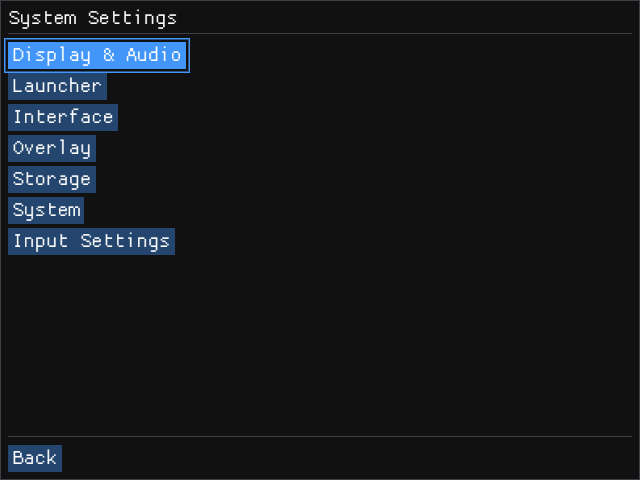
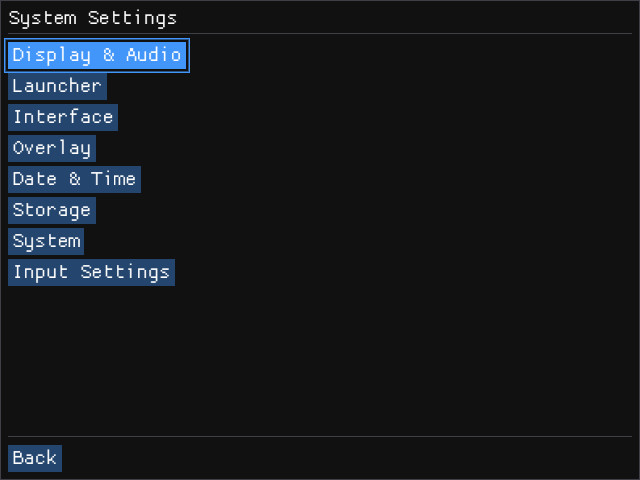
System Settings: Date & Time page
Sets the date and time (through power-manager, which runs as root and
keeps them in the RTC) and the time zone, shows the current time, and
chooses whether the launcher's top bar and the in-game status bar show
the date and/or the time, the date format and 12/24-hour time (12-hour
and MM/DD by default). Apps get the time zone through puppy-bootstrap.

Changed region(s): [[0.0, 0.3438, 0.2812, 0.5938]]

diff --git a/rootfs/package/system-settings/system-settings.cpp b/rootfs/package/system-settings/system-settings.cpp
@@ -8,6 +8,7 @@
 #include <algorithm>
 #include <cmath>
 #include <cstdio>
+#include <ctime>
 #include <fstream>
 #include <string>
 #include <vector>
@@ -158,6 +159,11 @@ const char* HUD_CONFIG = "/home/player/.config/gallium_hud.conf";
 const char* HUD_POSITIONS[] = {"top-left", "top-right", "bottom-left", "bottom-right"};
 const char* HUD_POSITION_NAMES[] = {"Top left", "Top right", "Bottom left", "Bottom right"};
 
+// Date formats: what the settings show, and the strftime format the clocks use
+const char* DATE_FORMAT_NAMES[] = {"MM/DD", "DD/MM", "MM/DD/YYYY", "DD/MM/YYYY", "YYYY-MM-DD", "DD/MM/YY", "YY-MM-DD"};
+const char* DATE_FORMATS[] = {"%m/%d", "%d/%m", "%m/%d/%Y", "%d/%m/%Y", "%Y-%m-%d", "%d/%m/%y", "%y-%m-%d"};
+const int DATE_FORMAT_COUNT = sizeof(DATE_FORMATS) / sizeof(DATE_FORMATS[0]);
+
 struct HudSettings {
     bool status = false;
     bool status_battery_only = false;
@@ -166,6 +172,10 @@ struct HudSettings {
     bool cpu = true;
     bool text = false;
     int position = 0;
+    bool date = true;
+    bool time = true;
+    bool h24 = false;
+    int date_format = 0;   // DATE_FORMATS
 };
 
 HudSettings load_hud_settings() {
@@ -178,6 +188,13 @@ HudSettings load_hud_settings() {
         if (key == "HUD_STATUS") hud.status = value == "true";
         else if (key == "HUD_STATUS_ITEMS") hud.status_battery_only = value == "battery";
         else if (key == "HUD_STATUS_OPACITY") hud.status_opacity = std::max(0, std::min(100, atoi(value.c_str())));
+        else if (key == "HUD_DATE") hud.date = value == "true";
+        else if (key == "HUD_TIME") hud.time = value == "true";
+        else if (key == "HUD_24H") hud.h24 = value == "true";
+        else if (key == "HUD_DATE_FORMAT") {
+            for (int i = 0; i < DATE_FORMAT_COUNT; i++)
+                if (value == DATE_FORMATS[i]) hud.date_format = i;
+        }
         else if (key == "HUD_VISIBLE") hud.visible = value == "true";
         else if (key == "HUD_ITEMS") hud.cpu = value == "fps,cpu";
         else if (key == "HUD_STYLE") hud.text = value == "text";
@@ -201,9 +218,57 @@ void save_hud_settings(const HudSettings& hud) {
              << "HUD_VISIBLE=" << (hud.visible ? "true" : "false") << "\n"
              << "HUD_ITEMS=" << (hud.cpu ? "fps,cpu" : "fps") << "\n"
              << "HUD_STYLE=" << (hud.text ? "text" : "graph") << "\n"
-             << "HUD_POSITION=" << HUD_POSITIONS[hud.position] << "\n";
+             << "HUD_POSITION=" << HUD_POSITIONS[hud.position] << "\n"
+             << "HUD_DATE=" << (hud.date ? "true" : "false") << "\n"
+             << "HUD_TIME=" << (hud.time ? "true" : "false") << "\n"
+             << "HUD_24H=" << (hud.h24 ? "true" : "false") << "\n"
+             << "HUD_DATE_FORMAT=" << DATE_FORMATS[hud.date_format] << "\n";
     }
     rename(tmp.c_str(), HUD_CONFIG);
+}
+
+// Time zones as UTC offsets in minutes; ~/.config/timezone gets the POSIX TZ string
+// (there is no zoneinfo), read by /etc/profile.d/timezone.sh when an app starts
+const char* TIMEZONE_FILE = "/home/player/.config/timezone";
+const int TIMEZONE_OFFSETS[] = {-720, -660, -600, -570, -540, -480, -420, -360, -300, -240, -210, -180,
+                                -120, -60, 0, 60, 120, 180, 210, 240, 270, 300, 330, 345, 360, 390,
+                                420, 480, 525, 540, 570, 600, 630, 660, 720, 765, 780, 840};
+const int TIMEZONE_COUNT = sizeof(TIMEZONE_OFFSETS) / sizeof(TIMEZONE_OFFSETS[0]);
+
+std::string timezone_label(int minutes) {
+    char text[16];
+    snprintf(text, sizeof(text), "UTC%c%02d:%02d", minutes < 0 ? '-' : '+', abs(minutes) / 60, abs(minutes) % 60);
+    return text;
+}
+
+// "<-03>3" for UTC-3: POSIX counts west of Greenwich as positive
+std::string timezone_posix(int minutes) {
+    if (minutes == 0) return "UTC0";
+    char text[24];
+    int h = abs(minutes) / 60, m = abs(minutes) % 60;
+    if (m) snprintf(text, sizeof(text), "<%c%02d%02d>%s%d:%02d", minutes < 0 ? '-' : '+', h, m, minutes < 0 ? "" : "-", h, m);
+    else snprintf(text, sizeof(text), "<%c%02d>%s%d", minutes < 0 ? '-' : '+', h, minutes < 0 ? "" : "-", h);
+    return text;
+}
+
+int load_timezone() {
+    std::ifstream file(TIMEZONE_FILE);
+    std::string line;
+    std::getline(file, line);
+    for (int i = 0; i < TIMEZONE_COUNT; i++)
+        if (timezone_posix(TIMEZONE_OFFSETS[i]) == line) return i;
+    for (int i = 0; i < TIMEZONE_COUNT; i++)
+        if (TIMEZONE_OFFSETS[i] == 0) return i;
+    return 0;
+}
+
+void save_timezone(int index) {
+    const std::string tz = timezone_posix(TIMEZONE_OFFSETS[index]);
+    mkdir("/home/player/.config", 0755);
+    std::ofstream file(TIMEZONE_FILE);
+    file << tz << "\n";
+    setenv("TZ", tz.c_str(), 1);
+    tzset();
 }
 
 // The launcher's tabs, written by Puppy as "name<TAB>label" lines.
@@ -547,6 +612,29 @@ void input_chip(const char* label, bool pressed, float width) {
 // its frame and grab made transparent and the bar drawn behind it.
 // Left/right change the value right away when the bar is selected (step per press), without having to
 // press A first as plain ImGui sliders need.
+// A number changed with left / right while selected, wrapping around at the ends
+bool number_stepper(const char* label, int* value, int min, int max, const char* format, bool hour12 = false) {
+    char text[32];
+    if (hour12) snprintf(text, sizeof(text), "%02d %s", *value % 12 ? *value % 12 : 12, *value < 12 ? "AM" : "PM");
+    else snprintf(text, sizeof(text), format, *value);
+    ImGui::Button((std::string("< ") + text + " >##" + label).c_str(), ImVec2(ImGui::GetFontSize() * 6.0f, 0));
+    bool changed = false;
+    if (ImGui::IsItemFocused()) {
+        int dir = 0;
+        if (ImGui::IsKeyPressed(ImGuiKey_GamepadDpadRight, true) || ImGui::IsKeyPressed(ImGuiKey_RightArrow, true)) dir = 1;
+        if (ImGui::IsKeyPressed(ImGuiKey_GamepadDpadLeft, true) || ImGui::IsKeyPressed(ImGuiKey_LeftArrow, true)) dir = -1;
+        if (dir) {
+            *value += dir;
+            if (*value > max) *value = min;
+            if (*value < min) *value = max;
+            changed = true;
+        }
+    }
+    ImGui::SameLine();
+    ImGui::Text("%s", label);
+    return changed;
+}
+
 bool level_slider(const char* label, int* value, int min, int max, int step) {
     ImDrawList* draw = ImGui::GetWindowDrawList();
     const ImVec2 pos = ImGui::GetCursorScreenPos();
@@ -686,7 +774,7 @@ int main(int argc, char* argv[]) {
 
     // The main page is a menu of sections; each opens its own page
     enum Page { PAGE_NONE, PAGE_MAIN, PAGE_DISPLAY, PAGE_LAUNCHER, PAGE_INTERFACE, PAGE_STORAGE,
-                PAGE_SYSTEM_MENU, PAGE_SYSTEM, PAGE_INPUT, PAGE_TESTER, PAGE_TABS, PAGE_OVERLAY };
+                PAGE_SYSTEM_MENU, PAGE_SYSTEM, PAGE_INPUT, PAGE_TESTER, PAGE_TABS, PAGE_OVERLAY, PAGE_DATETIME };
     Page page = PAGE_MAIN;
     // Where B / Back goes from each page (PAGE_NONE: leave the app)
     auto parent_of = [](Page p) {
@@ -711,6 +799,9 @@ int main(int argc, char* argv[]) {
     bool performance_mode = info.governor == PERFORMANCE_GOVERNOR;
     LauncherSettings launcher = load_launcher_settings();
     HudSettings hud = load_hud_settings();
+    int timezone = load_timezone();
+    struct tm clock_edit = {};   // the date and time being set, taken from the clock when the page opens
+    bool clock_set = false;
     const std::vector<i18n::Language> languages = i18n::available();
     bool launch_resize_home = false;
 
@@ -729,6 +820,8 @@ int main(int argc, char* argv[]) {
             if (page == PAGE_TESTER) got_event = SDL_WaitEventTimeout(&event, 33);
             // the shortcut list scrolls while the d-pad / right stick is held
             else if (page == PAGE_INPUT) got_event = SDL_WaitEventTimeout(&event, 50);
+            // the current time ticks on the Date & Time page
+            else if (page == PAGE_DATETIME) got_event = SDL_WaitEventTimeout(&event, 1000);
             else if (following) got_event = SDL_WaitEventTimeout(&event, HOTKEY_POLL_MS);
             // keep drawing while left/right is held, so holding it keeps changing a level bar
             else if (ImGui::IsKeyDown(ImGuiKey_GamepadDpadLeft) || ImGui::IsKeyDown(ImGuiKey_GamepadDpadRight) ||
@@ -838,6 +931,7 @@ int main(int argc, char* argv[]) {
             page_button(tr("Launcher"), PAGE_LAUNCHER);
             page_button(tr("Interface"), PAGE_INTERFACE);
             page_button(tr("Overlay"), PAGE_OVERLAY);
+            page_button(tr("Date & Time"), PAGE_DATETIME);
             page_button(tr("Storage"), PAGE_STORAGE);
             page_button(tr("System"), PAGE_SYSTEM_MENU);
             page_button(tr("Input Settings"), PAGE_INPUT);
@@ -997,6 +1091,92 @@ int main(int argc, char* argv[]) {
                 ImGui::EndCombo();
             }
             if (hud_changed) save_hud_settings(hud);
+            end_page();
+        } else if (page == PAGE_DATETIME) {
+            begin_page("DateTime", "Date & Time");
+            {
+                char now_text[48];
+                time_t now = time(nullptr);
+                struct tm tm;
+                localtime_r(&now, &tm);
+                std::string fmt = std::string(DATE_FORMATS[hud.date_format]) + (hud.h24 ? " %H:%M:%S" : " %I:%M:%S %p");
+                strftime(now_text, sizeof(now_text), fmt.c_str(), &tm);
+                ImGui::Text("%s %s", tr("Now:"), now_text);
+            }
+            ImGui::Spacing();
+            ImGui::TextDisabled("%s", tr("Launcher and in-game status bar"));
+            bool shown_changed = ImGui::Checkbox(tr("Show date"), &hud.date);
+            ImGui::SetItemDefaultFocus();
+            shown_changed |= ImGui::Checkbox(tr("Show time"), &hud.time);
+            shown_changed |= ImGui::Checkbox(tr("24-hour clock"), &hud.h24);
+            ImGui::AlignTextToFramePadding();
+            ImGui::Text("%s", tr("Date format:"));
+            ImGui::SameLine();
+            ImGui::SetNextItemWidth(ImGui::GetFontSize() * 7.0f);
+            if (ImGui::BeginCombo("##date_format", DATE_FORMAT_NAMES[hud.date_format])) {
+                for (int i = 0; i < DATE_FORMAT_COUNT; ++i) {
+                    bool selected = i == hud.date_format;
+                    if (ImGui::Selectable(DATE_FORMAT_NAMES[i], selected) && !selected) {
+                        hud.date_format = i;
+                        shown_changed = true;
+                    }
+                    if (selected) ImGui::SetItemDefaultFocus();
+                }
+                ImGui::EndCombo();
+            }
+            if (shown_changed) save_hud_settings(hud);
+
+            ImGui::Spacing();
+            if (ImGui::IsWindowAppearing() || clock_edit.tm_year == 0) {
+                time_t now = time(nullptr);
+                localtime_r(&now, &clock_edit);
+                clock_edit.tm_sec = 0;
+                clock_set = false;
+            }
+            int year = clock_edit.tm_year + 1900, month = clock_edit.tm_mon + 1;
+            bool edited = number_stepper(tr("Year"), &year, 2024, 2099, "%04d");
+            edited |= number_stepper(tr("Month"), &month, 1, 12, "%02d");
+            static const int kDays[] = {31, 28, 31, 30, 31, 30, 31, 31, 30, 31, 30, 31};
+            bool leap = (year % 4 == 0 && year % 100 != 0) || year % 400 == 0;
+            int days = kDays[month - 1] + (month == 2 && leap ? 1 : 0);
+            clock_edit.tm_mday = std::min(clock_edit.tm_mday, days);
+            edited |= number_stepper(tr("Day"), &clock_edit.tm_mday, 1, days, "%02d");
+            edited |= number_stepper(tr("Hour"), &clock_edit.tm_hour, 0, 23, "%02d", !hud.h24);
+            edited |= number_stepper(tr("Minute"), &clock_edit.tm_min, 0, 59, "%02d");
+            clock_edit.tm_year = year - 1900;
+            clock_edit.tm_mon = month - 1;
+            if (edited) clock_set = false;
+            if (ImGui::Button(tr("Set date and time"))) {
+                struct tm t = clock_edit;
+                t.tm_isdst = -1;
+                time_t when = mktime(&t);
+                if (when > 0) {
+                    send_power_request("set-time " + std::to_string((long long)when));
+                    clock_set = true;
+                }
+            }
+            if (clock_set) {
+                ImGui::SameLine();
+                ImGui::TextDisabled("%s", tr("Done"));
+            }
+
+            ImGui::Spacing();
+            ImGui::AlignTextToFramePadding();
+            ImGui::Text("%s", tr("Time zone:"));
+            ImGui::SameLine();
+            ImGui::SetNextItemWidth(ImGui::GetFontSize() * 7.0f);
+            if (ImGui::BeginCombo("##timezone", timezone_label(TIMEZONE_OFFSETS[timezone]).c_str())) {
+                for (int i = 0; i < TIMEZONE_COUNT; ++i) {
+                    bool selected = i == timezone;
+                    if (ImGui::Selectable(timezone_label(TIMEZONE_OFFSETS[i]).c_str(), selected) && !selected) {
+                        timezone = i;
+                        save_timezone(i);
+                        clock_edit.tm_year = 0;   // show the clock in the new zone
+                    }
+                    if (selected) ImGui::SetItemDefaultFocus();
+                }
+                ImGui::EndCombo();
+            }
             end_page();
         } else if (page == PAGE_STORAGE) {
             begin_page("Storage", "Storage");

diff --git a/rootfs/package/puppy/puppy.cpp b/rootfs/package/puppy/puppy.cpp
@@ -6,6 +6,7 @@
 #include <cctype>
 #include <cmath>
 #include <filesystem>
+#include <ctime>
 #include <fstream>
 #include <functional>
 #include <iterator>
@@ -395,6 +396,7 @@ struct Model {
     std::string renameText;
     size_t renameCursor = 0;    // byte position in renameText, moved with L1/R1
     std::string notice;         // short message over the footer (renamed, moved to the trash...)
+    std::string clock;          // date and/or time in the top bar, per System Settings -> Date & Time
     Uint32 noticeUntil = 0;
     std::string status;     // full-screen message while restarting / shutting down
     int descScroll = 0;     // lines the list preview's description is scrolled (right stick)
@@ -1431,6 +1433,33 @@ static void writeTabsList(const Model& m) {
 
 static bool batteryCharging = false, batteryFull = false;
 
+// strftime format of the top bar's clock, from the HUD settings System Settings writes
+// (month/day and a 12-hour time by default)
+static std::string clockFormat() {
+    bool date = true, time = true, h24 = false;
+    std::string dateFormat = "%m/%d";
+    std::ifstream in("/home/player/.config/gallium_hud.conf");
+    for (std::string line; std::getline(in, line);) {
+        if (line == "HUD_DATE=false") date = false;
+        else if (line == "HUD_TIME=false") time = false;
+        else if (line == "HUD_24H=true") h24 = true;
+        else if (line.compare(0, 16, "HUD_DATE_FORMAT=") == 0 && line.size() > 16) dateFormat = line.substr(16);
+    }
+    std::string fmt;
+    if (date) fmt = dateFormat;
+    if (time) fmt += std::string(fmt.empty() ? "" : " ") + (h24 ? "%H:%M" : "%I:%M %p");
+    return fmt;
+}
+
+static std::string clockText(const std::string& fmt) {
+    if (fmt.empty()) return "";
+    char text[32];
+    time_t now = time(nullptr);
+    struct tm tm;
+    localtime_r(&now, &tm);
+    return strftime(text, sizeof(text), fmt.c_str(), &tm) ? text : "";
+}
+
 static int readBattery() {
     std::error_code ec;
     batteryCharging = batteryFull = false;
@@ -1854,6 +1883,10 @@ private:
             statusX -= 22;
             if (audio.headphones) headphonesIcon(statusX, (kHeaderH - 16) / 2, kGrey);
             else speakerIcon(statusX, (kHeaderH - 16) / 2, kGrey, audio.muted);
+        }
+        if (!m.clock.empty()) {
+            statusX -= 14 + textWidth(smallFont, m.clock);
+            drawText(renderer, smallFont, m.clock, statusX, statusY, kGrey);
         }
 
         // "686 games", or "12 of 686 games" while searching
@@ -2470,6 +2503,7 @@ int main(int argc, char** argv) {
     bool running = true;
     bool dirty = true;
     int shownBattery = -2;
+    const std::string clock = clockFormat();
     Uint32 lastActivity = SDL_GetTicks();
 
     // d-pad auto-repeat
@@ -2679,6 +2713,7 @@ int main(int argc, char** argv) {
     while (running) {
         if (dirty) {
             shownBattery = readBattery();
+            model.clock = clockText(clock);
             ui.render(model, kb, osd, shownBattery, audio);
             if (!consoleCleared) {
                 // The boot's "Starting system..." stays on the text console, which flashes between
@@ -2708,6 +2743,8 @@ int main(int argc, char** argv) {
                 timeout = std::min(timeout, (int)kOsdRefreshMs);
             }
         }
+        if (!clock.empty())   // wake up when the minute changes
+            timeout = std::min(timeout, (int)(60 - time(nullptr) % 60) * 1000);
         if (!model.notice.empty()) {
             if ((Sint32)(now - model.noticeUntil) >= 0) {
                 model.notice.clear();
@@ -2745,6 +2782,7 @@ int main(int argc, char** argv) {
                 a.read();
                 if (a != audio) { audio = a; dirty = true; }
             }
+            if (clockText(clock) != model.clock) dirty = true;
             continue;
         }
 

diff --git a/README.md b/README.md
@@ -166,6 +166,11 @@ System Settings
 │       ├── Content: FPS / FPS + CPU
 │       ├── Style: Graph / Text
 │       └── Position: top or bottom, left or right
+├── Date & Time
+│   ├── Now: the current date and time
+│   ├── Show date / Show time / 24-hour clock
+│   ├── Year, Month, Day, Hour, Minute ─ Set date and time
+│   └── Time zone
 ├── Storage
 │   ├── HOME usage
 │   ├── Resize Home
@@ -183,6 +188,7 @@ System Settings
 - **In-game status bar**: battery, volume and audio output in the top right corner of every game, with the launcher's icons; Opacity sets its background.
 - **Performance**: the Gallium HUD graphs that FN + D-pad up shows in game. Text only goes at the top.
 - Overlay changes apply from the next game on.
+- **Date & Time**: the date and time in the launcher's top bar and the in-game status bar (12-hour by default). The clock chip keeps the time while the console is off, so it only needs setting once; the time zone applies to the apps opened afterwards.
 - **Empty trash**: deletes for good the games moved to the trash in the launcher.
 - **Performance mode**: keeps the CPU at full speed.
 
@@ -195,8 +201,8 @@ VT323 and Pixelify Sans are under the SIL Open Font License and ProggyClean unde
 | ![System Settings](docs/screenshots/system-settings.png) | ![Display & Audio](docs/screenshots/system-settings-audio.png) |
 | Overlay | In-game status bar |
 | ![Overlay](docs/screenshots/system-settings-overlay.png) | ![In-game status bar](docs/screenshots/status-bar.png) |
-| Performance overlay in game (FN + D-pad up) | |
-| ![Performance overlay in game](docs/screenshots/performance-overlay.png) | |
+| Date & Time | Performance overlay in game (FN + D-pad up) |
+| ![Date & Time](docs/screenshots/system-settings-datetime.png) | ![Performance overlay in game](docs/screenshots/performance-overlay.png) |
 
 ## Translations
 Every text in the launcher, System Settings, the confirmation screens and `Resize Home` can be translated, and new languages need no code changes. Languages live in `/usr/share/goodluck/lang/<code>.lang` (in the repository: `rootfs/board/my-device/rootfs-overlay/usr/share/goodluck/lang/`) and show up in System Settings -> Interface -> Language as soon as the file is there.
